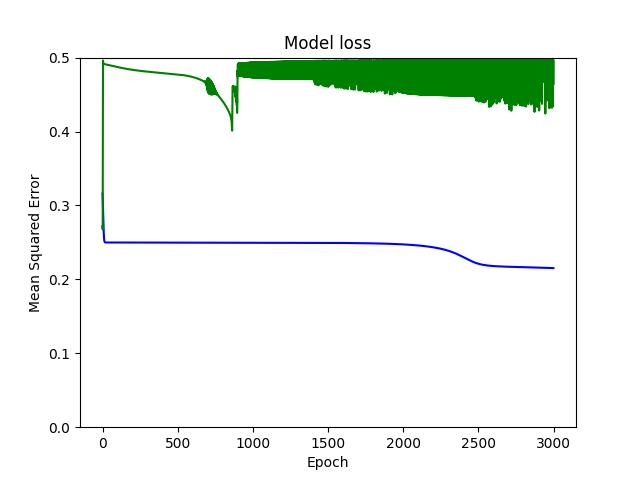
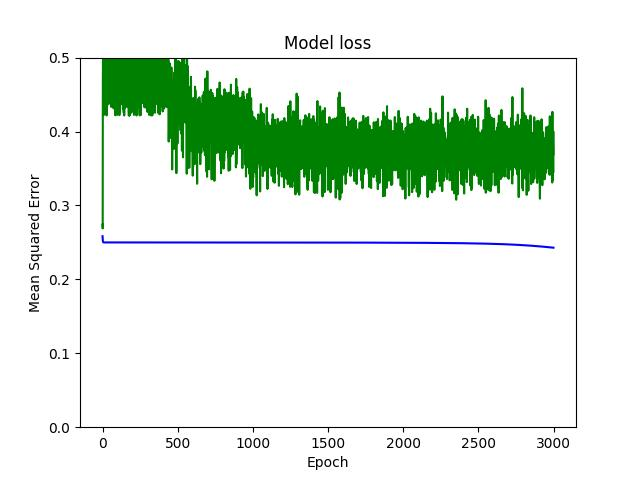
attempted fix, appears to have done something

Changed region(s): [[0.1562, 0.125, 0.875, 0.4375], [0.2188, 0.5, 0.875, 0.5625], [0.1562, 0.4375, 0.1875, 0.5]]

diff --git a/src/assignment1.py b/src/assignment1.py
@@ -76,8 +76,8 @@ class Neural_Network:
                 self.Weights[i] = self.Weights[i] - (reg_const/batch_size) * total_change_weights[i]                
                 self.Bias[i] = self.Bias[i] - (reg_const/batch_size) * total_change_bias[i]
             else:
-                self.Weights[i] = self.Weights[i] - (reg_const/batch_size) * total_change_weights[i] + rho * (self.Weights[i] - weights_old[i])
-                self.Bias[i] = self.Bias[i] - (reg_const/batch_size) * total_change_bias[i] + rho * (total_change_bias[i] - bias_old[i])
+                self.Weights[i] = self.Weights[i] - ((reg_const/batch_size) * total_change_weights[i] + rho * weights_old[i])
+                self.Bias[i] = self.Bias[i] - ((reg_const/batch_size) * total_change_bias[i] + rho * bias_old[i])
 
 
     def test_network(self, data):
@@ -130,14 +130,14 @@ class Neural_Network:
             #     print("Mean squared error = {} \n Accuracy = {}".format(total_sse/batch_size, (total_correct_predictions*100)/batch_size))
 
             #Save current weights
-            weights_old_queue = self.Weights
-            bias_old_queue = self.Bias
+            #weights_old_queue = self.Weights
+            #bias_old_queue = self.Bias
             if(j==0):
                 Neural_Network.gradient_descent(self, total_change_bias, total_change_weights, 0, 0, batch_size, reg_const, rho)
             else:
                 Neural_Network.gradient_descent(self, total_change_bias, total_change_weights, bias_old, weights_old, batch_size, reg_const, rho)
-            weights_old = weights_old_queue
-            bias_old = bias_old_queue
+            weights_old = total_change_weights
+            bias_old = total_change_bias
 
         return loss, accuracy
 
